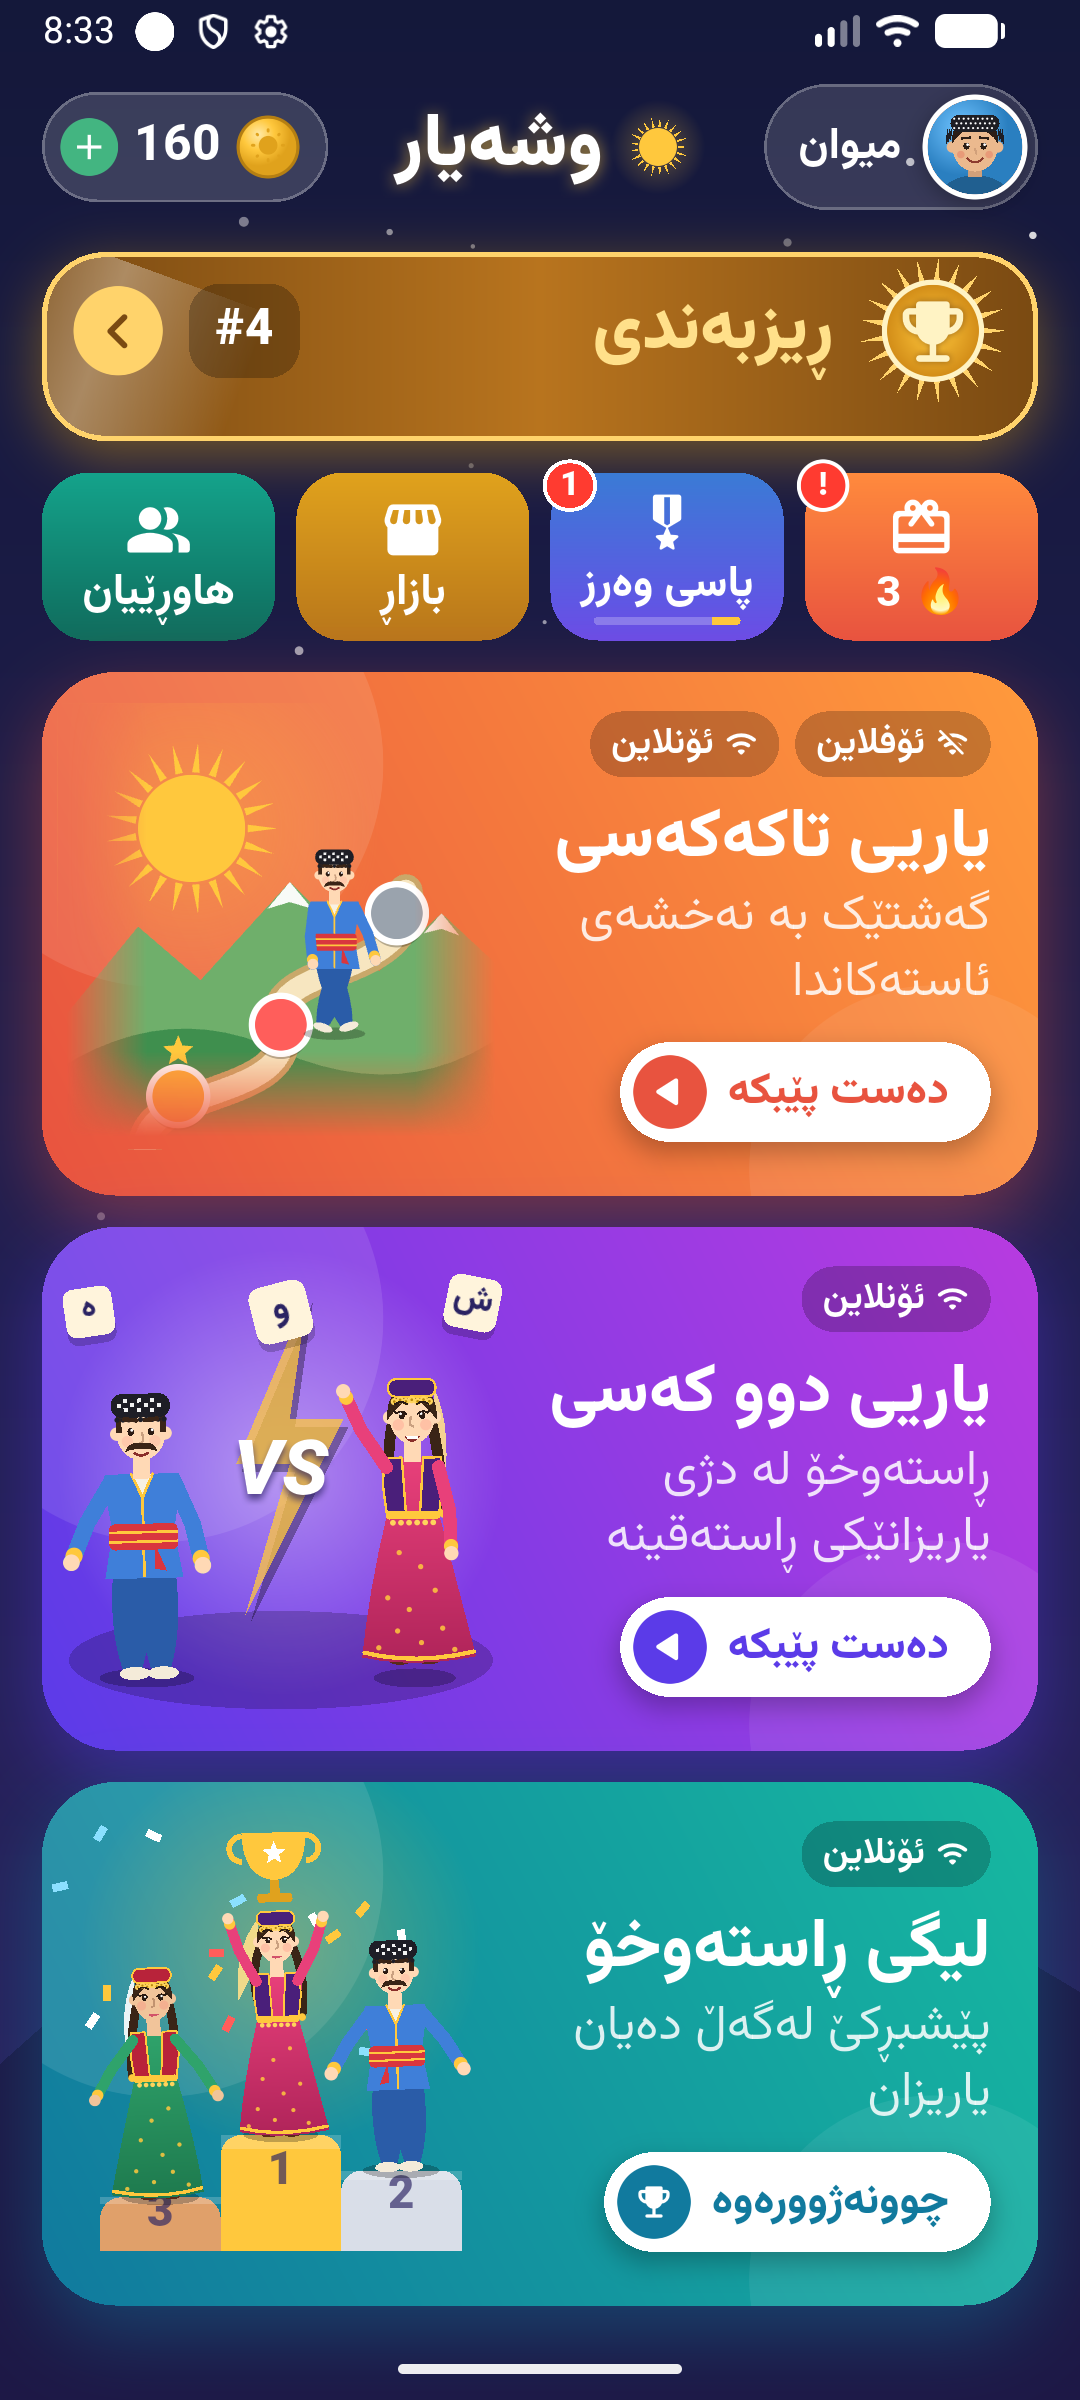
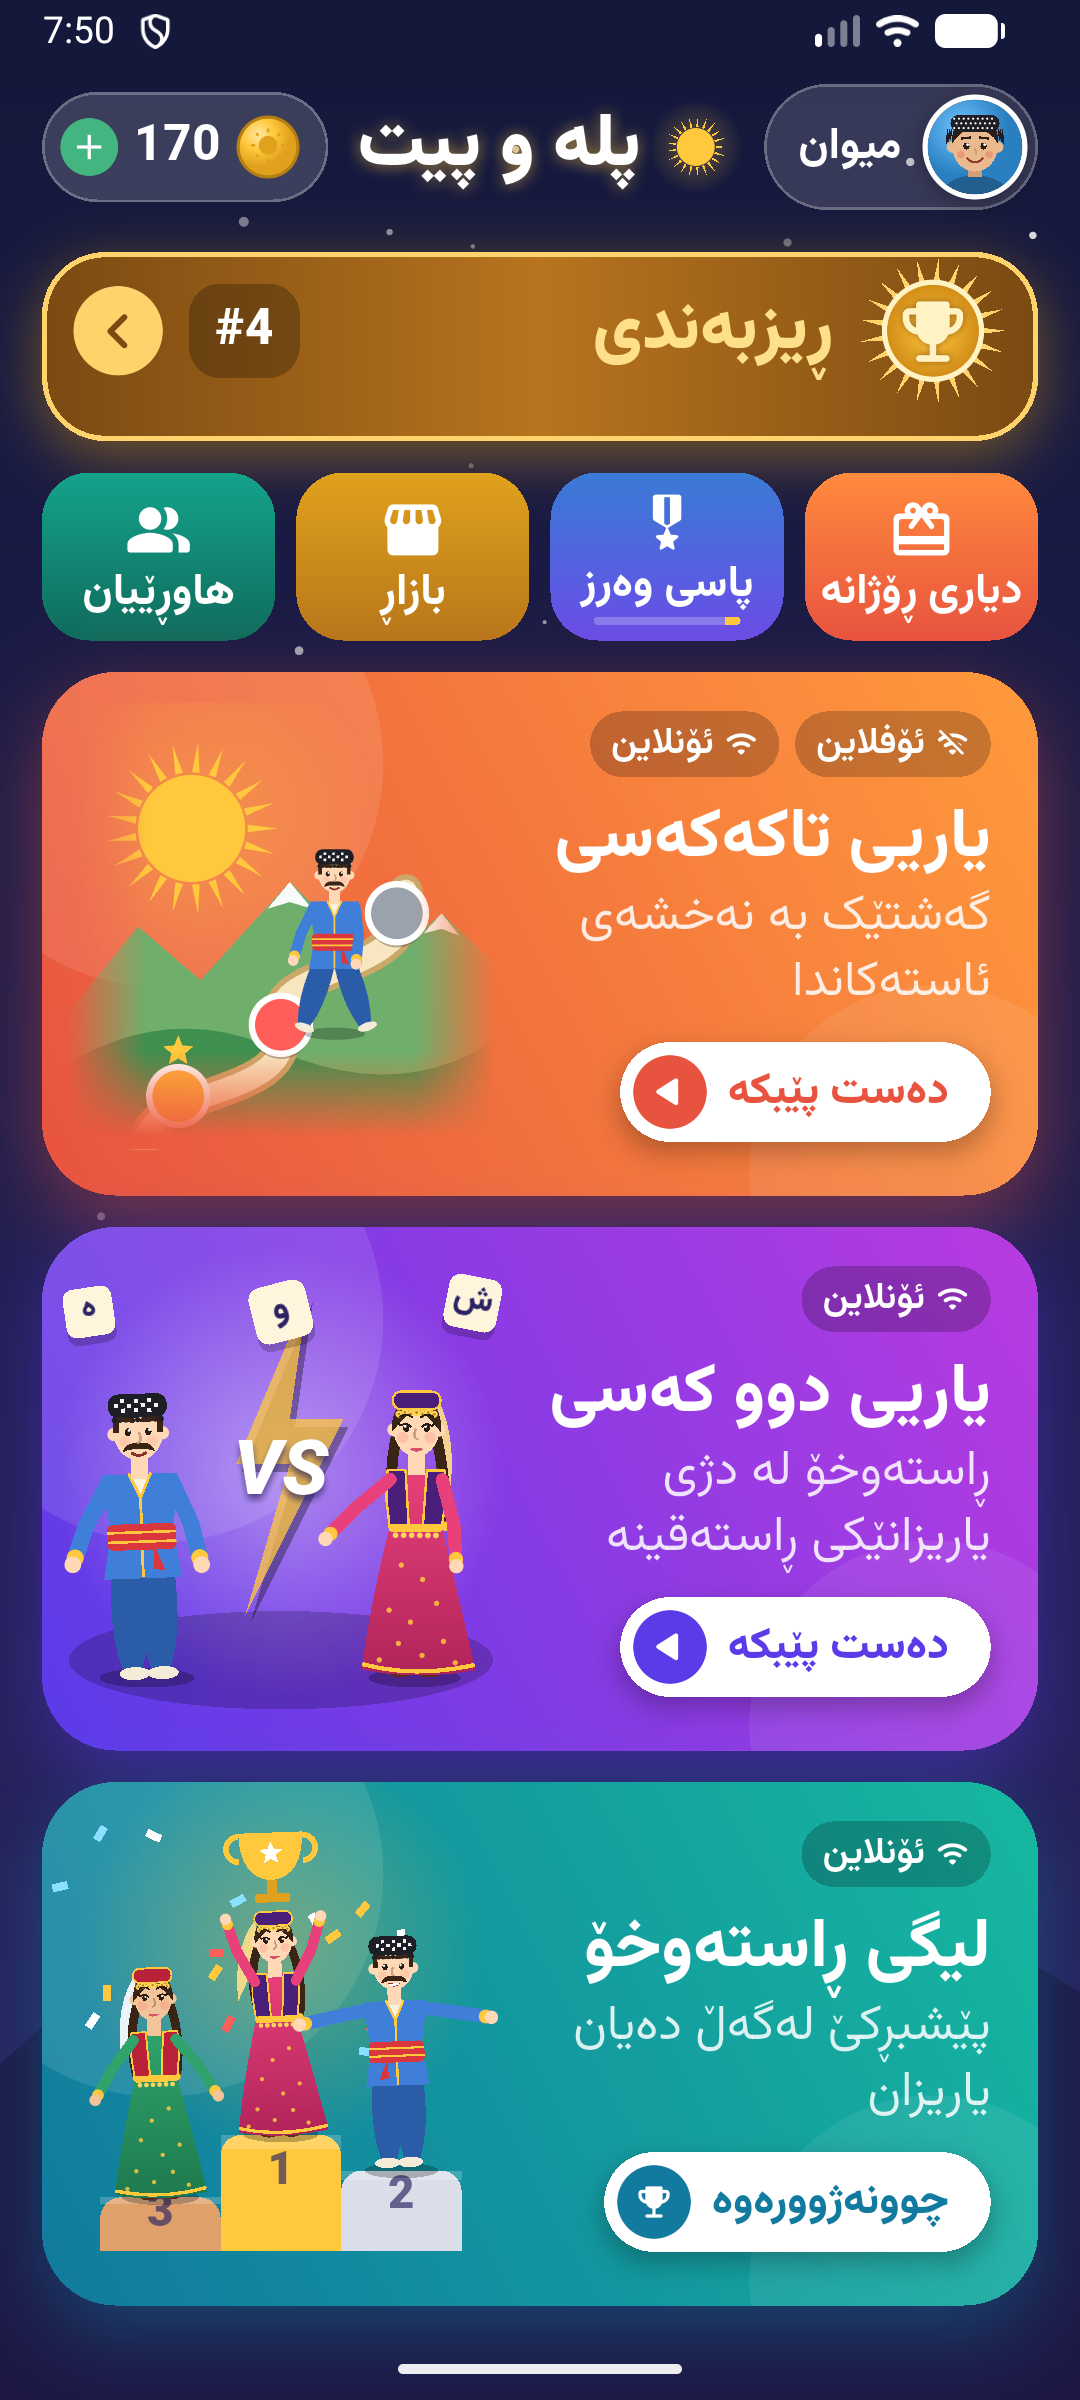
Name: Pelepit and «پلە و پیت» everywhere; current app screenshot; blocking in the legal pages
- Replaces PILEPIT and the older Kurdish spelling in pages, legal text and
  metadata (owner decision).
- The home screenshot showed the game's old name: new one from build 10156.
  New social image. Versioned file names, as these are cached for a year.
- Privacy and terms mention blocking players and the stored block list.

diff --git a/README.md b/README.md
@@ -1,4 +1,4 @@
-# PILEPIT website
+# Pelepit website
 
 Sorani Kurdish, RTL, single-page Astro website. Static output; no server or adapter required.
 
